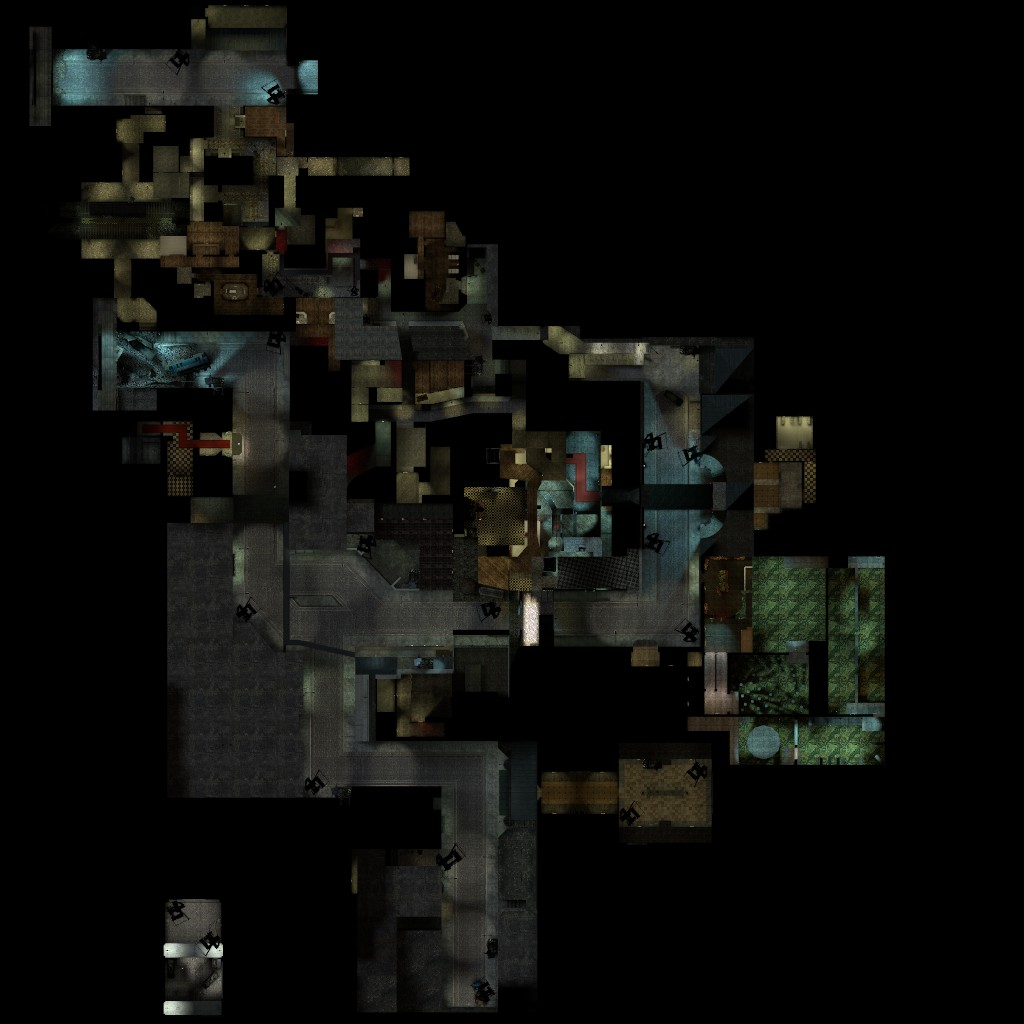
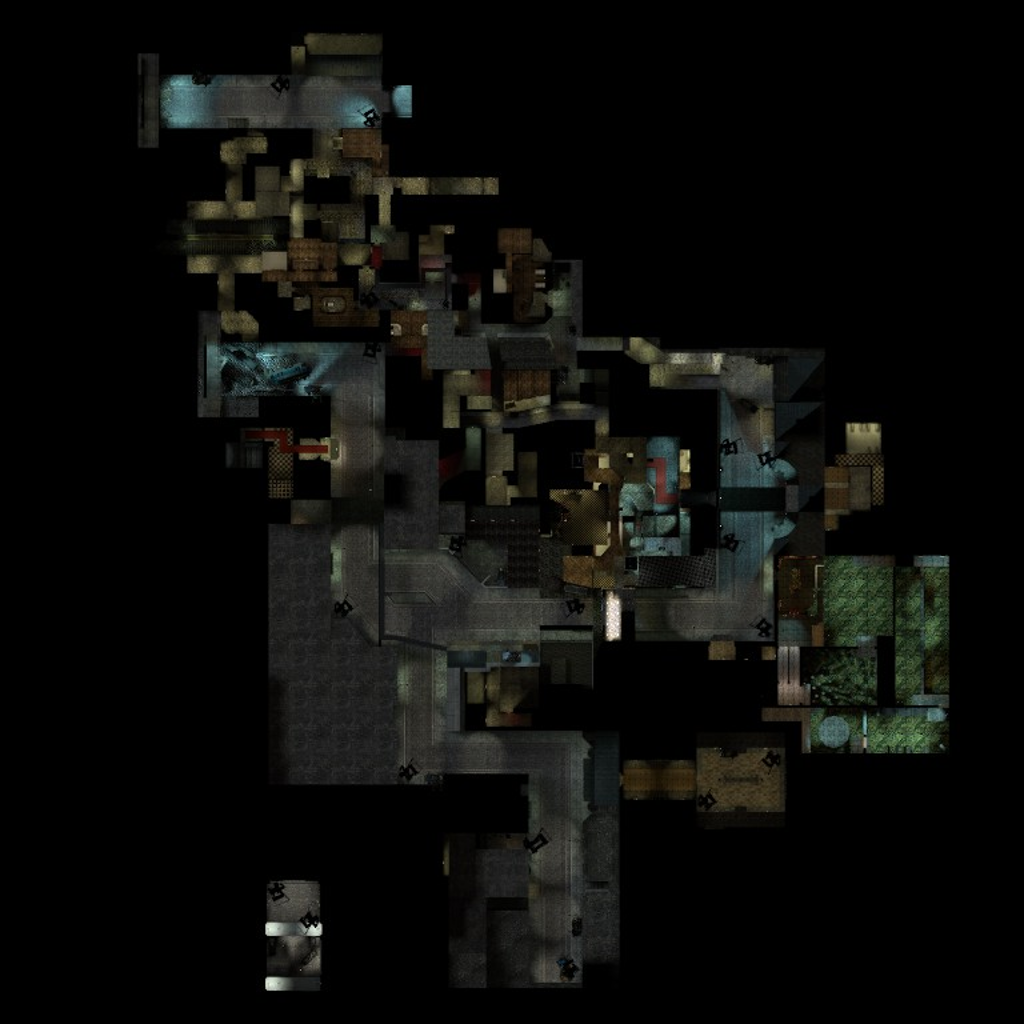
Fix overview by not using fullscreen to take screenshot

Changed region(s): [[0.0312, 0.0, 0.9375, 1.0], [0.25, 0.8438, 0.3125, 0.9688], [0.1562, 0.875, 0.2188, 1.0]]

diff --git a/docs/creating-a-map-overview.md b/docs/creating-a-map-overview.md
@@ -1,0 +1,95 @@
+# m🗺 Creating Map Overview Screenshots for Garry's Mod
+
+## Quick Guide
+
+To create an accurate map overview screenshot that works correctly with the coordinate conversion system, follow these exact steps:
+
+### 1. Set Up the Game
+
+```txt
+mat_setvideomode 1024 768 1
+sv_cheats 1
+```
+
+**Important:** Use windowed mode (`1` at the end) to avoid DPI scaling issues that occur in fullscreen.
+
+Although 1024x1024 is ideal, Garry's Mod may refuse it. 1024x768 works fine; you'll just need to crop and resize the screenshot later.
+
+### 2. Prepare the View
+
+Go into noclip near the center of your map:
+
+```txt
+noclip
+```
+
+Remove visual clutter:
+
+```txt
+r_skybox 0
+fog_override 1
+fog_enable 0
+r_drawstaticprops 0
+```
+
+### 3. Position the Overview
+
+Use these commands to set up the overview view, which will position you above the map:
+
+```txt
+cl_leveloverviewmarker 1024
+cl_leveloverview 12
+```
+
+- `cl_leveloverviewmarker 768` draws a 768x768 square showing the screenshot area
+- `cl_leveloverview 12` sets the scale (adjust until the map fits in the square)
+- Use arrow keys to move the view, note that you are noclipping around the map during this time.
+- The console will print: `Overview: scale X.XX, pos_x XXXX, pos_y XXXX` each time you move.
+
+### 4. Take the Screenshot
+
+```txt
+bind F12 "screenshot"
+```
+
+Press F12 to take a screenshot.
+
+**Write down the `Overview: scale X.XX, pos_x XXXX, pos_y XXXX` values from the console output!** You'll need them for the config.
+
+### 5. Use the Values
+
+1. Go to your screenshots folder
+2. Open the screenshot in an image editor (e.g., Paint.NET, GIMP, Photoshop)
+3. If you used 1024x768, crop the image to a square (768x768) where the top-left corner stays in the same place.
+4. Resize the cropped image to 1024x1024 pixels.
+5. Save the image as a `.png` file and save it in `addons/materials/versus/map_overviews/` with the name matching your map (e.g., `gm_construct.png`).
+
+Use the exact values from the console in your map overview config:
+
+```lua
+local overview = UNIT.new({
+  scale = 12.00,      -- From "scale 12.00"
+  pos_x = -5314,      -- From "pos_x -5314"
+  pos_y = 6662,       -- From "pos_y 6662"
+  mapTexture = Material("versus/map_overviews/gm_construct.png"),
+  mapSize = 1024,
+})
+```
+
+## Why Windowed Mode?
+
+Fullscreen mode can apply DPI scaling or GPU scaling that affects pixel measurements. This causes the aspect ratio calculation in the Source Engine to be incorrect, resulting in wrong `pos_x` values.
+
+Windowed mode at 1024x1024 ensures:
+
+- Exact 1:1 aspect ratio (no aspect ratio corrections needed)
+- No DPI scaling interference
+- Accurate coordinate values from the console
+
+## Troubleshooting
+
+**If coordinates still drift:**
+
+1. Make sure you used windowed mode (`mat_setvideomode 1024 768 1`)
+2. Verify your editted screenshot is exactly 1024x1024 pixels
+3. Double-check you copied the console values correctly
